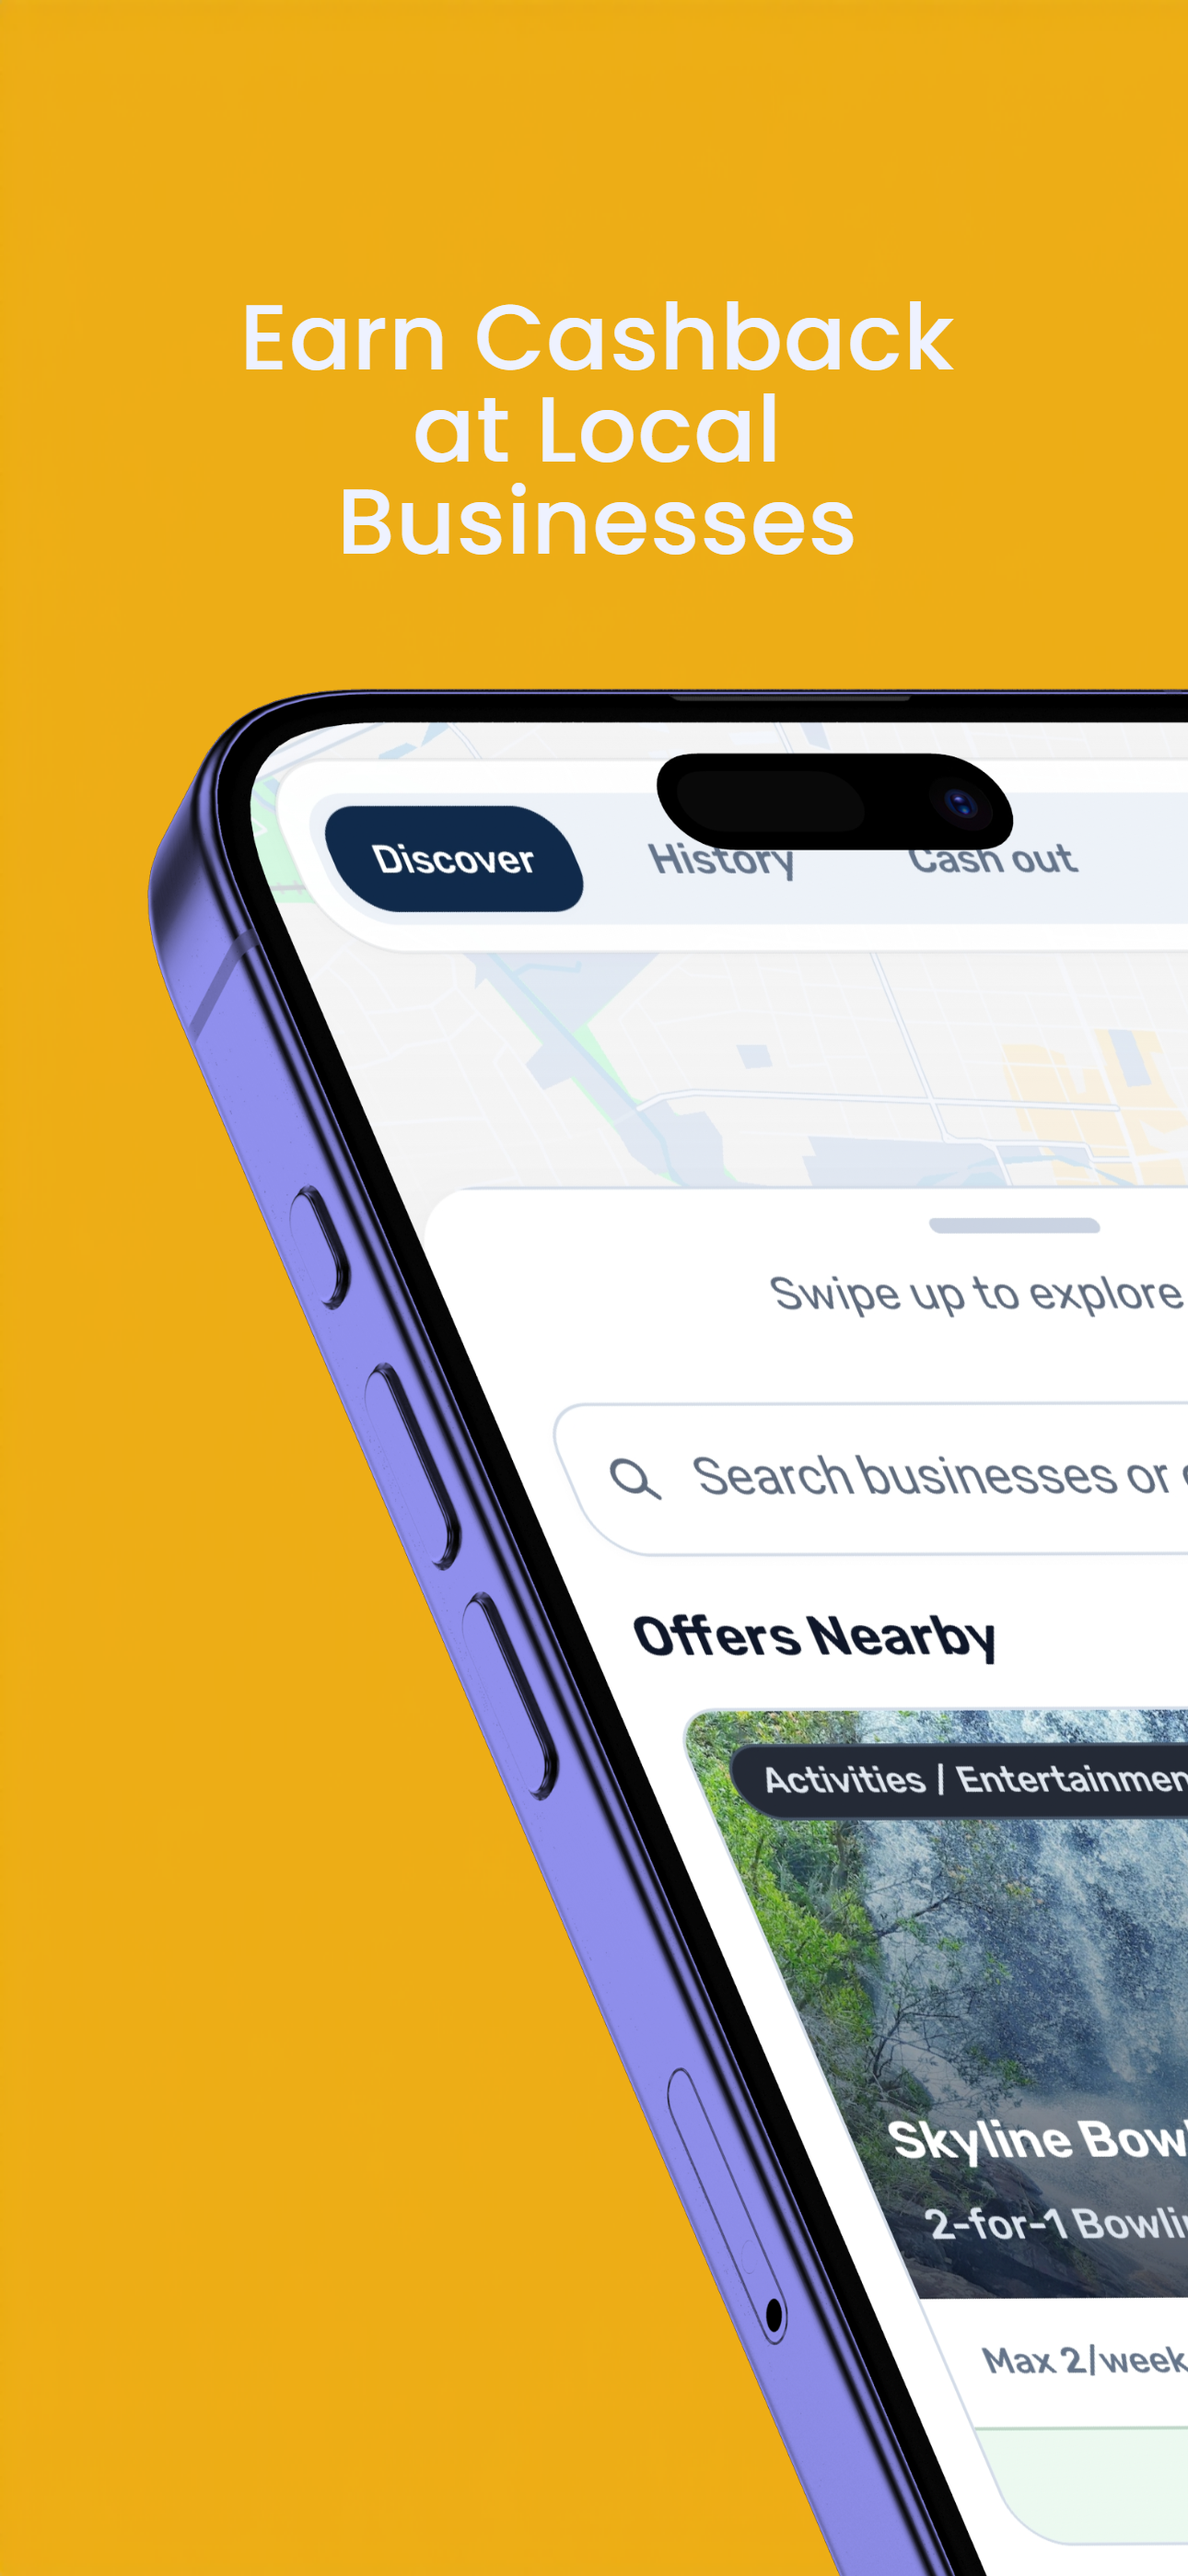
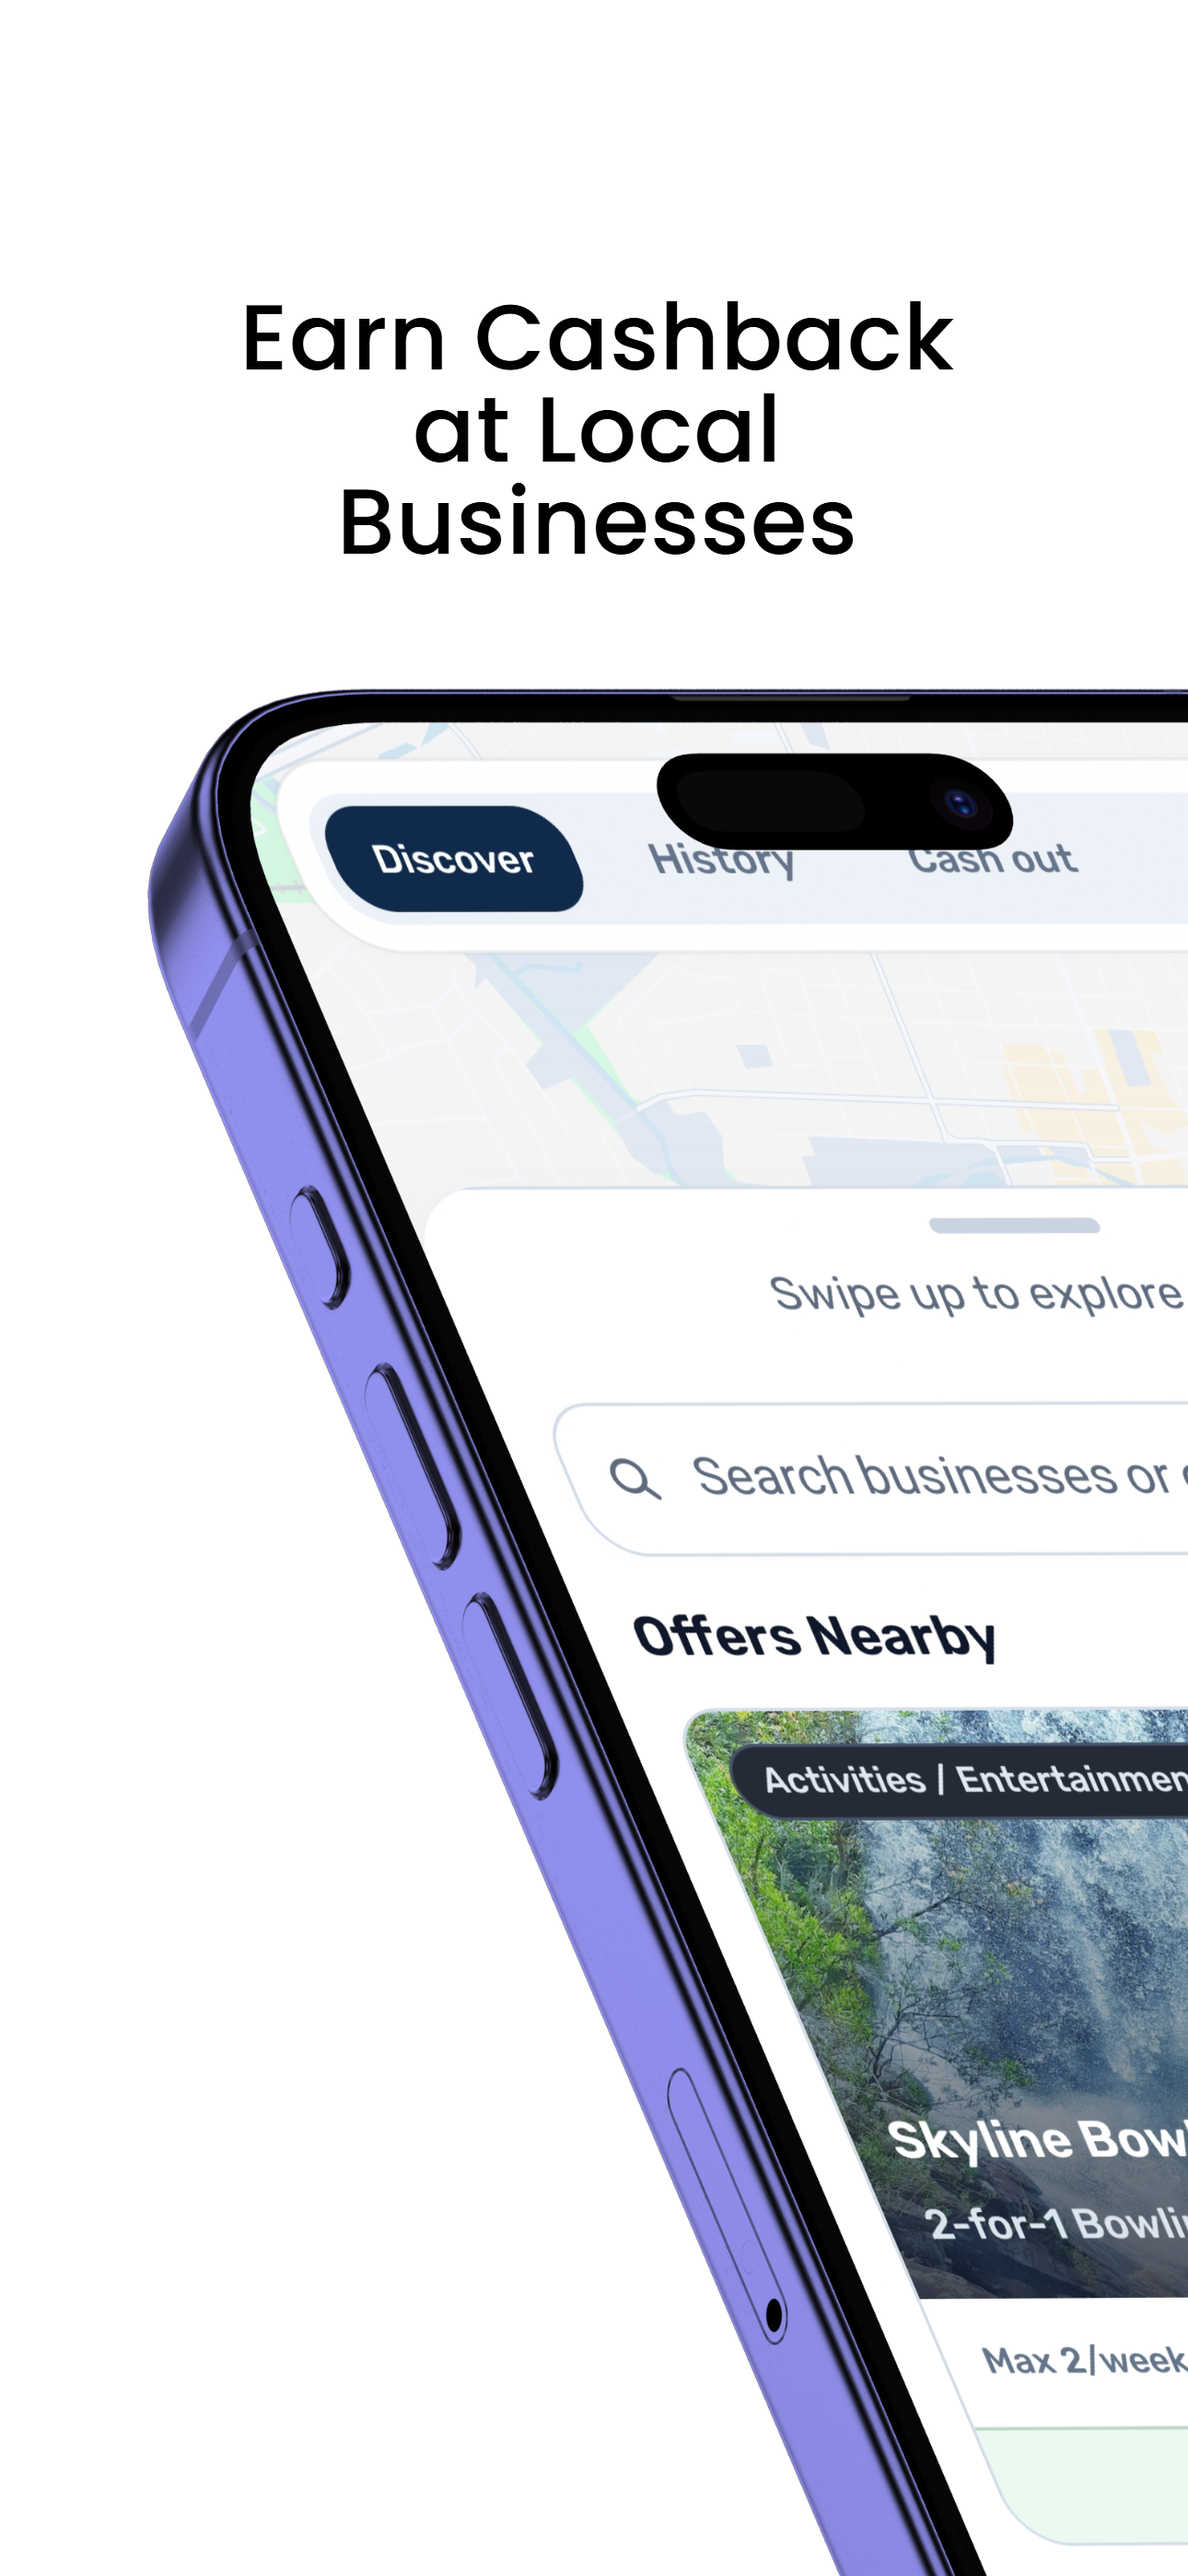
Place two transparent hero screenshots and remove old showcase strip

diff --git a/site/index.html b/site/index.html
@@ -52,24 +52,6 @@
       </header>
 
       <main>
-        <section class="v2-section v2-showcase">
-          <div class="v2-container">
-            <div class="v2-showcase-scroll" aria-label="Wello product screenshots">
-              <div class="v2-showcase-track">
-                <figure class="v2-shot">
-                  <img src="/webss/1.png" alt="Wello app screenshot 1" loading="lazy" />
-                </figure>
-                <figure class="v2-shot">
-                  <img src="/webss/2.png" alt="Wello app screenshot 2" loading="lazy" />
-                </figure>
-                <figure class="v2-shot">
-                  <img src="/webss/3.png" alt="Wello app screenshot 3" loading="lazy" />
-                </figure>
-              </div>
-            </div>
-          </div>
-        </section>
-
         <section class="v2-hero">
           <div class="v2-container v2-hero-grid">
             <div>
@@ -83,13 +65,15 @@
                 <a class="v2-btn v2-btn-secondary" href="#how">How it works</a>
               </div>
             </div>
-            <aside class="v2-hero-card" aria-label="Platform highlights">
-              <h2>What teams get</h2>
-              <ul>
-                <li>Cleaner offer approvals</li>
-                <li>Receipt and bank-linked verification paths</li>
-                <li>Clear status from publish to reward</li>
-              </ul>
+            <aside class="v2-hero-media" aria-label="Wello product screenshots">
+              <div class="v2-hero-media-track">
+                <figure class="v2-shot">
+                  <img src="/webss/1.png" alt="Wello app screenshot 1" loading="lazy" />
+                </figure>
+                <figure class="v2-shot">
+                  <img src="/webss/2.png" alt="Wello app screenshot 2" loading="lazy" />
+                </figure>
+              </div>
             </aside>
           </div>
         </section>

diff --git a/site/styles.css b/site/styles.css
@@ -2926,53 +2926,18 @@ body.referral-v2 .v2-actions {
   margin-top: 20px;
 }
 
-body.home-v2 .v2-hero-card {
-  border-radius: var(--radius-card);
-  background: #111111;
-  color: #f8f8f8;
-  border: 1px solid rgba(255, 255, 255, 0.08);
-  box-shadow: var(--shadow-soft);
-  padding: 20px;
+body.home-v2 .v2-hero-media {
+  width: 100%;
 }
 
-body.home-v2 .v2-hero-card h2 {
-  color: #f9f9f9;
-  font-size: clamp(22px, 3vw, 30px);
-}
-
-body.home-v2 .v2-hero-card ul {
-  margin: 14px 0 0;
-  padding-left: 18px;
+body.home-v2 .v2-hero-media-track {
   display: grid;
-  gap: 8px;
-  color: rgba(255, 255, 255, 0.9);
-  font-size: 15px;
+  grid-template-columns: repeat(2, minmax(0, 1fr));
+  gap: 10px;
 }
 
 body.home-v2 .v2-section {
   padding: 26px 0;
-}
-
-body.home-v2 .v2-showcase {
-  padding-top: 8px;
-  padding-bottom: 8px;
-}
-
-body.home-v2 .v2-showcase-scroll {
-  overflow-x: auto;
-  -webkit-overflow-scrolling: touch;
-  scrollbar-width: thin;
-  display: flex;
-  justify-content: center;
-}
-
-body.home-v2 .v2-showcase-track {
-  width: max-content;
-  min-width: 0;
-  margin: 0 auto;
-  display: grid;
-  grid-template-columns: repeat(3, minmax(140px, 210px));
-  gap: 10px;
 }
 
 body.home-v2 .v2-shot {
@@ -3459,9 +3424,8 @@ body.legal-v2 .legal-table th {
     grid-template-columns: 1fr;
   }
 
-  body.home-v2 .v2-showcase-track {
-    grid-template-columns: repeat(3, minmax(130px, 180px));
-    gap: 8px;
+  body.home-v2 .v2-hero-media-track {
+    max-width: 560px;
   }
 
   body.home-v2 .v2-cta-row {
@@ -3499,9 +3463,8 @@ body.legal-v2 .legal-table th {
     display: none;
   }
 
-  body.home-v2 .v2-showcase-track {
-    grid-template-columns: repeat(3, minmax(110px, 140px));
-    gap: 6px;
+  body.home-v2 .v2-hero-media-track {
+    gap: 8px;
   }
 
   body.home-v2 .v2-nav-links a,
